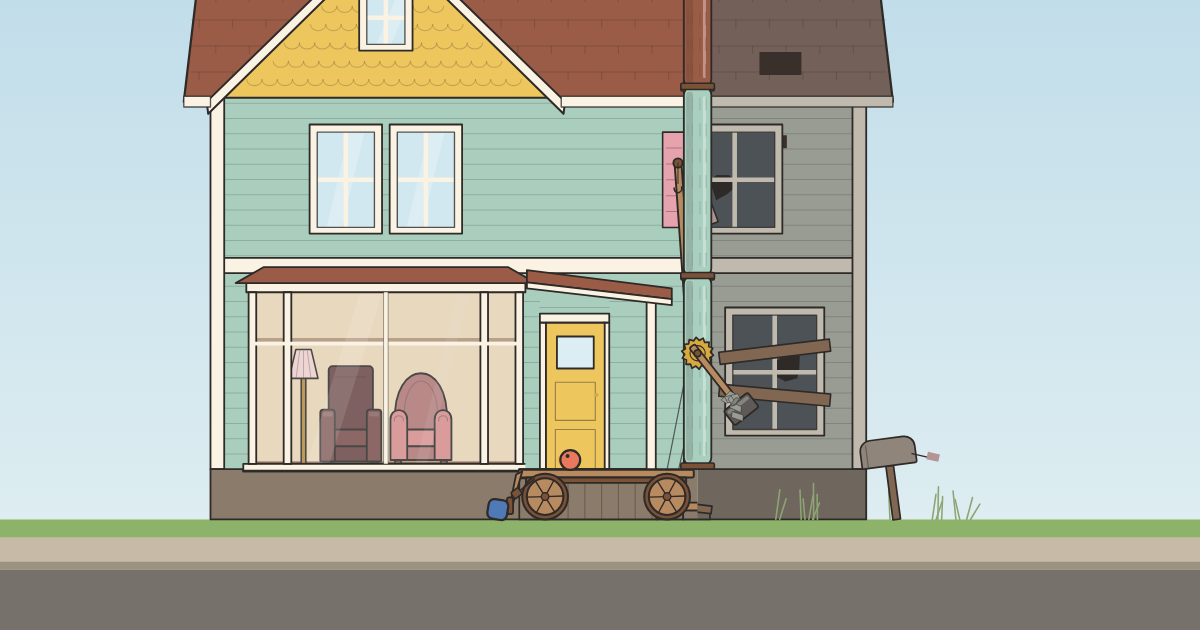
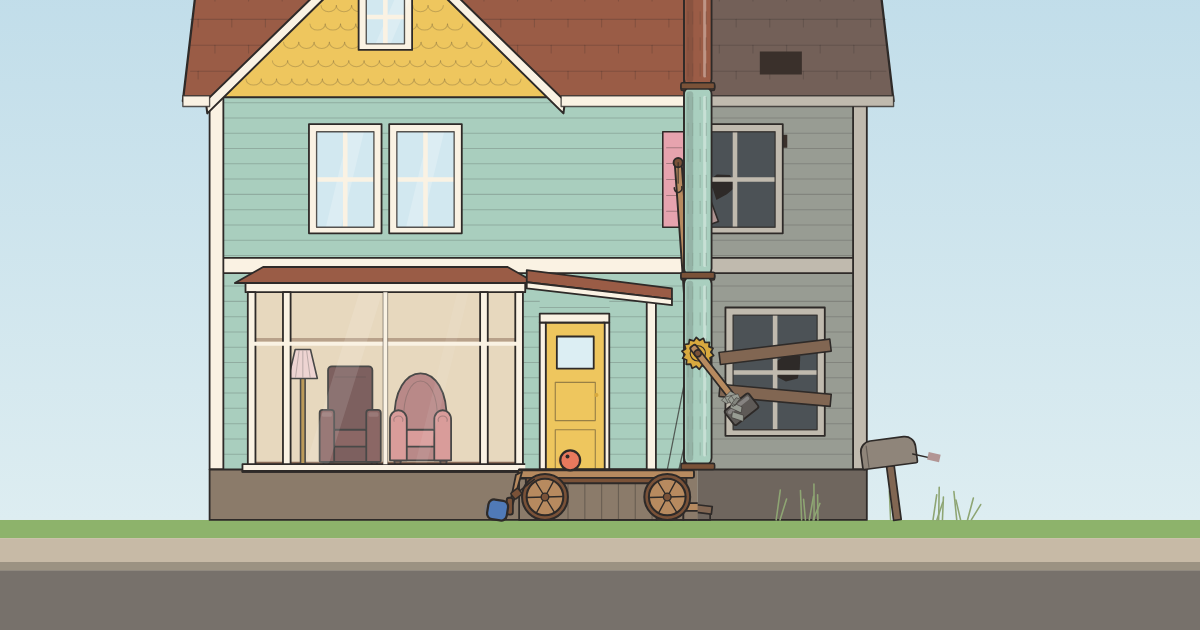
Married Life: the notes for the director's first pass, and the share card again

diff --git a/apps/rube/src/shows/versions/married-life/MARRIED_LIFE.md b/apps/rube/src/shows/versions/married-life/MARRIED_LIFE.md
@@ -58,7 +58,7 @@ the credits over the house.
 
 ## In order
 
-Every scene has one hero mechanism that does something real on the music. There are 218 strikes in all, each on a
+Every scene has one hero mechanism that does something real on the music. There are 221 strikes in all, each on a
 measured beat or onset.
 
 ### The wedding (0 to 21.58 s): the church
@@ -66,7 +66,9 @@ measured beat or onset.
 - The show opens on a sepia photograph. The photographer's flash (0.44) wipes it white, and it fades into colour.
 - **The machine is the organ.** On twenty onsets of the jazzed march a rank of its pipes lights and breathes, and
   its bellows pump. Ellie's family bounce in their pews; Carl's sit stiff. Ellie hops on the march's accents. Carl
-  makes small stiff hops, and on one she bumps him.
+  makes small stiff hops, and on one she bumps him; while she waits he shuffles two nervous steps along the altar step
+  and back. The camera pulls out once to the whole church (organ, families, tower and bell) and then pushes in, in
+  one continuous move, to the kiss.
 - **The kiss is on waltz bar 1 (17.76)**, with the organ's great chord and the east window's light on them. The bell
   peals on the next three downbeats. They run down the aisle, the doors fly open as Ellie reaches them, and they run
   out at 1.6 cells a second.
@@ -78,7 +80,9 @@ measured beat or onset.
   jib. Left of the rollers the house is new; right of them it is still the old grey one.
 - Hammer blows fall on bars 7 to 17, each kicking the cart on in a waltz lilt. The jib lowers his chair, then hers,
   in through the empty bay. The door is knocked straight, a pane drops in, and the last blow sets the mailbox post.
-- **The mailbox.** Her print (round, coral) goes on bar 21, his (square, blue) on bar 22. She leaps over him and
+- **The mailbox.** Her handprint (a round palm) goes on bar 21, his (a square palm) on bar 22: two small hands,
+  fingers up, thumbs reaching toward each other, in the box's own paint pressed darker, so they never read as two
+  more of them. She leaps over him and
   leads up the steps; he follows a bar behind. On the soft bars 29 to 31 they sit in the two armchairs at the bay
   window.
 
@@ -86,8 +90,10 @@ measured beat or onset.
 
 - They lie on a check blanket beside Carl's **toy steam engine**. Its flywheel turns once a bar, its flap lifts,
   and it chuffs on every downbeat. Each puff rises and opens into a soft, uninked cloud.
-- Bars 32 to 35 build an airship, which drifts off. Bars 36 to 39 build Paradise Falls in cloud. Bars 40 to 45
-  build **a sleeping baby**, low over the two of them. He starts; she rolls close.
+- Bars 32 to 35 build an airship, which drifts off. Bars 36 to 39 build Paradise Falls in cloud. Bars 40 to 43
+  build **a baby**, sitting up, one arm reaching, low over the two of them, one soft silhouette (tried lying down, it
+  read as two lumps). He starts; she rolls close. The camera stays close enough (at most 5.5 cells) that the two of
+  them are never lost under the sky.
 
 ### The nursery (63.25 to 73.46 s): the house, inside, upstairs
 
@@ -100,9 +106,10 @@ measured beat or onset.
 ### The doctor (73.46 to 84.38 s): the clinic
 
 - Two chairs a little apart. The doctor's coat hangs on a stand, so the doctor is there without being seen.
-- **The machine is light and time.** Sun bars from unseen blinds slide across the room. On 81.14 she sinks a
-  little and rolls away from him; he leans toward her. A cloud takes the light and the room goes cold. Nothing else
-  hits.
+- **The machine is light and time.** Sun bars from unseen blinds slide across the room. The camera pushes in slowly
+  through the held note, from the room to the two of them, so that on 81.14, when she sinks a little and rolls away
+  from him and he leans toward her, that is the whole picture. A cloud takes the light and the room goes cold; in
+  the near silence the camera draws back and left, toward where the yard will be. Nothing else hits.
 
 ### The yard, the jar and the ties (84.38 to 167.71 s): the house, inside, one long take
 
@@ -111,42 +118,57 @@ The doll's house cut open: the yard, the back door, the living room, the hall, t
 
 - **The yard.** The office's cold light carries across the cut. Ellie sits on a stump in the grey yard, turned
   away. Carl watches from inside the back door through the piano alone. He leans into the bookcase, the adventure
-  book tips onto him, and he pushes out through the screen door. **On 100.36, the waltz's return, the book opens**
-  on his top: Paradise Falls stands up out of it, at her eye level. She hops down and leads him back in.
+  book tips onto him (a thick old book, a rounded spine, a strap), and he pushes out through the screen door. **On
+  100.36, the waltz's return, the book opens** on his top: its top board swings over on the spine and comes down
+  flat, the pages curling at the gutter, and Paradise Falls rises out of the gutter in cut paper, the camera in close
+  on it and on her turning to it. She hops down and leads him back in; the book folds shut, slowly, on bar 2's third
+  beat, and slides back off his top onto its shelf by the door on bar 3.
 - **The jar.** A seesaw stands in front of the fireplace. Carl hops on his end on each downbeat, and the cup end
-  throws three coins over the room into the jar's slot on the mantle. Then life breaks it open three times:
-  - the car's tyre, seen through the window (the hubcap flies); she tips the jar and the coins pour away;
-  - Carl's leg: he climbs the ladder for the pendant lamp, the ladder kicks, he falls, and a bandage wraps his foot;
-  - the storm: the garden tree's limb comes through the nursery roof on the thunder (128.87), and the jar goes over
-    by itself. The limb is winched out, boards are nailed over the hole, and the sun breaks through.
+  throws three coins over the room into the jar's slot on the mantle. The jar stands in **a brass cradle** that turns
+  on a sprung knuckle at the mantle's end; under it a tin hopper feeds **a chute** down the wall to a slot, and what
+  goes down the chute is gone, paid out of the house. Life breaks it open three times:
+  - the car's tyre, seen close through the window (the hubcap flies); she pushes the jar over in its cradle, the
+    coins run down the chute and out, and the cradle's spring sets it back on its feet, slowly;
+  - Carl's leg: he climbs the ladder for the pendant lamp, the ladder kicks, he falls (the camera in close), and her
+    touch wraps a bandage round his foot; she pours the jar out again;
+  - the storm: the camera draws back to the whole house as it gathers, and the garden tree's limb breaks through the
+    roof into the nursery on the thunder (128.87), inside the frame; the blow throws the jar over by itself. The limb
+    is winched out, boards are nailed over the hole, and the sun breaks through.
 - **The ties.** A wheel of ties stands in the hall and turns on the downbeats. Each morning a collar and tie comes
   down onto him, and she snugs it on the next downbeat: five ties from five decades, the last a bow tie. They grey
   as they go.
-- **The dance**, on the loudest bars of the cue, in one wide: the gramophone playing at the left, her painting over
-  the desk at the right, and the two of them turning slowly down the hall between.
-- **The tickets.** The picture lamp lights on her painting, and Carl looks up at it. He pumps a ticket machine on
-  bars 57 to 60. The two tickets fly into the picnic basket on the cadence, and its lid shuts on 167.71. He goes out
-  through the front door with it on his top, Ellie a step ahead.
+- **The dance**, on the loudest bars of the cue, close: a travelling shot down the hall a little ahead of them in the
+  warm pool of the lamp, a rise on every downbeat and a sway on the two and three, she circling him once every two
+  bars, until they rest in each other's arms on bar 55.
+- **The tickets.** The picture lamp lights on her painting, and Carl looks up at it. He pumps **a red ticket press**
+  (a roll of blank tickets on its top, a hand lever that throws down on each stamp, a window whose reel rolls through
+  a city, the sea, mountains, to the falls) on bars 57 to 60. The camera is in close as the two tickets fly from its
+  slot into the picnic basket on the cadence, and draws back as its lid shuts on 167.71. Past the open front door the
+  porch has its rail and the evening sky. He goes out with the basket on his top, Ellie a step ahead.
 
 ### The climb (167.71 to 180.41 s): the hill, years later
 
-- Autumn: grey sky, straw grass, the tree turning. For once Carl leads, up the steep flank toward the tree. The
-  camera goes out to the whole hill.
-- She lags, rests on the stone step, tries the slope and stops. **On 174.67 she lets go**: she rolls back off the
-  step, the smallest drop. The strike is the basket, thrown off his top as he turns; it lands up the path, on its
-  side, and stays there. He comes back down to her, slowly.
+- Autumn: grey sky, straw grass, the tree turning, the town a pale roofline far off. The camera draws back from the
+  two of them setting out to the whole hill, the tree small on its crest. For once Carl leads, up the steep flank.
+- She climbs after him, tires, rests, pushes on and stalls. **On 174.67 she gives way**: she rolls back down the
+  whole way she climbed, across the fieldstone step, and comes to rest on the lane. The strike is the basket, thrown
+  off his top as he turns; it lands up the path, on its side, and stays there. He comes back down to her, slowly.
 
 ### The hospital (180.41 to 189.45 s): the clinic
 
-- Her bed is at his chair's height. The balloon is his. The sky in the window goes gold, rose, violet, night. He
-  tips to pull the lamp on (182.43). On 185.66 she rolls the smallest way toward him, and he answers with a lean.
+- Her bed is at his chair's height. The balloon is his: he has brought it. The sky in the window goes gold, rose,
+  violet, night. He tips to pull the lamp on (182.43). The camera pushes in on the two of them, the balloon whole
+  over him, and on 185.66 she rolls the smallest way toward him, and he answers with a lean.
 
 ### The funeral (189.45 to 201.94 s): the church, empty
 
-- The same church, grey. Carl sits alone in the front pew, the balloon over him, the wedding photograph on an easel
-  where they stood. The camera drifts to the wedding kiss's framing, now empty.
-- He stands and walks the aisle slowly, and is under the bell when **it tolls once, on the cue's strongest onset
-  (197.71)**. Dust sifts down. He goes out in the silence and comes to rest at the foot of the steps.
+- The same church, empty. It opens under the hospital's night, dim and blue, the glass dark, and the grey morning
+  comes up over it in three seconds, the one pale beam and its dust last. Carl sits alone in the front pew, the
+  balloon over him, the wedding photograph on an easel where they stood. The camera drifts to the wedding kiss's
+  framing, now empty.
+- He stands and walks the aisle slowly into the porch, where the bell's rope hangs. As it is pulled the camera rises
+  and widens with it, and **the bell tolls once, on the cue's strongest onset (197.71)**, the whole empty church in
+  the frame. Dust sifts down. He goes out in the silence and comes to rest at the foot of the steps.
 
 ### Alone (201.94 to 258 s): the house, from the street, at dusk
 
@@ -155,17 +177,19 @@ The doll's house cut open: the yard, the back door, the living room, the hall, t
 - On the piano's notes he climbs the three steps, one careful step at a time. The latch; the door. He ties the
   balloon to her chair, so it floats over the empty seat. He sits in his, with a slow settle, and leans to put the
   lamp on.
-- The camera pushes in on the two chairs, then pulls back through the credits, continuously, to the small lit house
+- The camera pushes in slowly on the two chairs through the sit, and from the lamp it draws back, continuously and
+  slower and slower to the last frame: the lit window, the house at dusk, the roof, the sky, the small lit house
   under the stars. The evening star comes out, then the street lamps, the last on the last piano note (242.53).
 
 ## End credits
 
 Over the house at dusk from 226.2 s, after he has sat down, a card at a time, set by the page
-(`Performance.titles`, `life/credits.ts`): **Directed by** Claude Opus 5.5; **With** Carl (the blue square) and
-Ellie (the coral ball), each with a swatch; **Music** Michael Giacchino, "Married Life", from Up (2009); **After** Up,
-a film by Pete Docter, co-directed by Bob Peterson, Pixar Animation Studios (2009); **Drawn with** p5.js. The last
-card is gone by about 255 s, and the house holds alone to 258. A soft dark lies under the first cards, over the lit
-house front, and thins to a breath as night falls.
+(`Performance.titles`, `life/credits.ts`): **Directed by** Claude Opus 5.5; **With** Carl Fredricksen (the blue
+square) and Ellie Fredricksen (the coral ball), each with a swatch; **Music** Michael Giacchino, "Married Life", from
+Up (2009); **After** Up, a film by Pete Docter, co-directed by Bob Peterson, Pixar Animation Studios (2009);
+**Drawn with** p5.js. The last card is gone by about 255 s, and the house holds alone to 258. The camera has drawn
+back by then, so the first card lies over the upper storey, the second over the roof and the rest over the night
+sky; the canvas puts nothing under the words.
 
 **No balloon coda.** The montage ends with Carl alone in the house. What the film does next, the house lifting on
 balloons, belongs to other music. The show ends where the montage ends: two chairs, one empty, the lamp in the
@@ -181,8 +205,10 @@ window.
   hill, the hospital, the church, home. Every cut is on a clear onset. The long take changes rooms on the jar
   waltz's downbeats (bars 3 and 37). No portal, and no cut drawn.
 - **Carl:** in a place he never jumps. At every cut he holds his place on the screen (within 1% of the frame a
-  millisecond). He is never hidden for more than 2.5 s, and under Zoom he never leaves the frame. The stage draws no
-  ball: the cast draws the two of them.
+  millisecond). He is never hidden for more than 2.5 s. The stage draws no ball: the cast draws the two of them.
+- **Zoom and distance:** under Zoom (1.5× closer) his whole square and her whole ball stay in the frame. No shot wider
+  than 6 cells lasts more than 2.5 s, except five named reveals, each held to its window and its widest: the house
+  made new (the machine as tall as it), the storm, the hill years later, the one toll, and the credits.
 - **The camera is one take:** at every cut its pan and zoom carry on through, carried by the cut, and where Carl is
   moving across a cut the camera does not come to rest there.
 - **The music:** every strike lands within 30 ms of a waltz beat or 35 ms of a measured onset. At least 80% of each
@@ -194,7 +220,7 @@ window.
 - **The years:** his blue and her coral grey with age, and hers is the colour she is drawn in. The balloon is his
   from the hospital to the end, and not before.
 - **The credits:** after he has sat down and gone before the end, set by the page, opening on Directed by Claude
-  Opus 5.5 and naming Carl, Ellie, Michael Giacchino, Married Life, Up, Pete Docter and p5.js.
+  Opus 5.5 and naming Carl and Ellie Fredricksen, Michael Giacchino, Married Life, Up, Pete Docter and p5.js.
 
 ## How it is built
 
@@ -237,16 +263,23 @@ window.
   part, with a builder brief kept out of the repo.
 - **Build.** Seven builders built the places in parallel, one place each, so every visit to a place had one owner:
   the church, the house's front, the hill, the home rooms, the clinic, the jar's living room and the hall of ties.
-- **Integration.** The director made the camera one take across the cuts, carried the bow tie to the end, put the
-  dance in one wide, opened the yard in the office's light, and thinned the credits' bed as night falls. The whole
-  show was filmed at 1× in four segments (60 fps at 960×540 in headless Chromium), and the share card made.
+- **Integration.** The director made the camera one take across the cuts, carried the bow tie to the end, opened the
+  yard in the office's light, filmed the whole show at 1× in four segments (60 fps at 960×540 in headless Chromium),
+  and made the share card.
+- **Critics and fixers.** A fresh critic watched the whole show and ranked notes against Stephen's list; five fixers
+  took one file each (the wedding's camera, the baby cloud, the ties and the dance, the climb and the fall, the
+  toll).
+- **Director's pass.** The notes that crossed files: stricter checks (both of them whole under Zoom, no wide shot
+  lingering); the credits drawn back from the lamp with no bed under the words, and the cast named in full; push-ins
+  in the doctor's office and the hospital; the funeral opened under the hospital's night; the handprints as hands;
+  the jar's cradle and chute; the adventure book as a book; the ticket press and the porch; the dance close; the far
+  town as one roofline.
 
 ## Known limits
 
-- In the widest shots (the clouds' two dreams, about 8 cells; the storm, about 9; the whole hill, about 10) the two
-  of them are small. It is scale on purpose, but it is small.
-- The baby in the clouds reads as a curled sleeping figure more than unmistakably a baby; the cut to the crib and
-  the mobile completes it.
+- In the named reveals (the house made new, about 10 cells; the storm and the whole hill, about 9.5) the two of them
+  are small. It is scale on purpose, and each is held to its window by the check.
 - The congregation are human-sized silhouettes beside the token-sized couple.
+- The airship in the clouds reads as a long cloud more than an airship.
 - Only Chrome on macOS has been watched. The YouTube cue's sync, Safari and a recording export have not been
   measured for this take.
